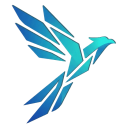
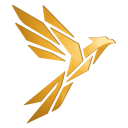
Ukai 鵜飼: the extension's name, its citrine gem (#f5b73b) and the family's faceted bird in citrine

Changed region(s): [[0.0938, 0.0312, 0.9062, 0.9688]]

diff --git a/ui/ukai.css b/ui/ukai.css
@@ -1,11 +1,12 @@
-/* Surasura's look (its night palette, app/theme.py): the popup and the options page share it. */
+/* Ukai 鵜飼's look: the Houseki family's night room (Surasura's palette, app/theme.py) with Ukai's own gem, citrine
+   #f5b73b, as its accent. The popup and the options page share it. */
 :root {
   --bg: #04060a; --surface: #0a0e14; --raised: #101621; --frame: #0c1017;
   --line: #161e2a; --line-hi: #243044;
   --ink: #e6ecf5; --ink-dim: #7d8aa2; --ink-faint: #56627a;
-  --accent: #62b6f2; --accent-deep: #2a6fa8; --accent-wash: #1a2a3a;
+  --accent: #f5b73b; --accent-deep: #d9961f; --accent-ink: #1a1203; --accent-wash: #2a2210;
   --ok: #7fcf9f; --warn: #e7bf72; --bad: #c02040; --bad-type: #f8f0e0;
-  --iris: linear-gradient(90deg, #36c9cf 0%, #4f9cf0 45%, #a98bff 100%);
+  --gem: linear-gradient(90deg, #ffd977 0%, #f5b73b 50%, #d9961f 100%);
   color-scheme: dark;
 }
 * { box-sizing: border-box; }
@@ -15,8 +16,9 @@ body { font: 13px/1.45 "Segoe UI Variable Text", "Segoe UI", system-ui, sans-ser
 .brand { display: flex; align-items: center; gap: 8px; padding: 10px 12px; background: var(--frame);
   border-bottom: 1px solid var(--line); }
 .brand img { width: 22px; height: 22px; }
-.brand b { font-size: 14px; font-weight: 600; background: var(--iris); -webkit-background-clip: text;
+.brand b { font-size: 14px; font-weight: 600; background: var(--gem); -webkit-background-clip: text;
   background-clip: text; color: transparent; }
+.brand i { font-style: normal; color: var(--ink-dim); font-size: 13px; }
 .brand span { color: var(--ink-faint); font-size: 12px; margin-left: auto; }
 
 .page { padding: 10px 12px 12px; }
@@ -36,8 +38,8 @@ input:focus, select:focus { border-color: var(--accent); }
 button { font: inherit; font-weight: 600; margin: 8px 6px 0 0; padding: 6px 14px; border-radius: 9px; cursor: pointer;
   color: var(--ink); background: var(--raised); border: 1px solid var(--line-hi); }
 button:hover { border-color: var(--accent); }
-button:first-of-type, button.primary { background: var(--accent-deep); border-color: var(--accent-deep); color: #fff; }
-button:first-of-type:hover, button.primary:hover { background: #3380bd; }
+button:first-of-type, button.primary { background: var(--accent); border-color: var(--accent); color: var(--accent-ink); }
+button:first-of-type:hover, button.primary:hover { background: #ffc85a; border-color: #ffc85a; }
 button:disabled { opacity: .5; cursor: default; }
 
 a { color: var(--accent); text-decoration: none; } a:hover { text-decoration: underline; }

diff --git a/options/options.html b/options/options.html
@@ -1,10 +1,10 @@
 <!doctype html>
 <meta charset="utf-8">
-<title>Surasura – settings</title>
+<title>Ukai – settings</title>
 <link rel="icon" href="../icons/icon-32.png">
-<link rel="stylesheet" href="../ui/surasura.css">
+<link rel="stylesheet" href="../ui/ukai.css">
 <style>.page{max-width:520px;margin:24px auto}</style>
-<div class="brand"><img src="../icons/icon-32.png" alt=""><b>Surasura</b><span>browser extension</span></div>
+<div class="brand"><img src="../icons/icon-32.png" alt=""><b>Ukai</b><i>鵜飼</i><span>Surasura's watch companion</span></div>
 <div class="page">
 <section>
 <h2>Surasura token</h2>

diff --git a/popup/popup.html b/popup/popup.html
@@ -1,12 +1,12 @@
 <!doctype html>
 <meta charset="utf-8">
-<title>Surasura</title>
-<link rel="stylesheet" href="../ui/surasura.css">
+<title>Ukai</title>
+<link rel="stylesheet" href="../ui/ukai.css">
 <style>
   body{width:360px}
   #probeOut img,#probeOut audio{width:100%;margin-top:4px}
 </style>
-<div class="brand"><img src="../icons/icon-32.png" alt=""><b>Surasura</b><span>to your library</span></div>
+<div class="brand"><img src="../icons/icon-32.png" alt=""><b>Ukai</b><i>鵜飼</i><span>to Surasura</span></div>
 <div class="page">
 <div id="yt" hidden></div>
 <div id="mining" hidden></div>

diff --git a/README.md b/README.md
@@ -1,4 +1,9 @@
-# Surasura subtitle sender (Chrome / Edge extension, v0.2)
+<img src="icons/icon-128.png" width="64" alt="">
+
+# Ukai 鵜飼 — Surasura's watch companion (Chrome / Edge extension, v0.2)
+
+The cormorant that fishes the river at night by torchlight and brings each fish home: Ukai brings the subtitles and
+clips of what you watch home to your local Surasura. Its gem is citrine, `#f5b73b`.
 
 Sends the subtitles of the Netflix or Disney+ video you are watching to your local Surasura app, so they land
 in the library like a YouTube transcript. Plain JavaScript, Manifest V3, no build step.
